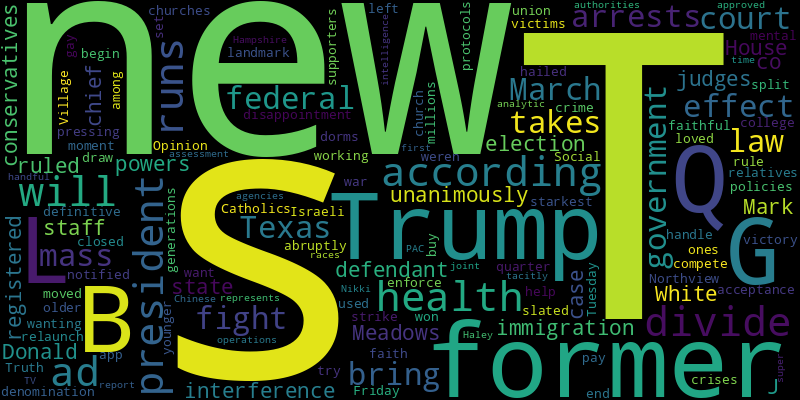
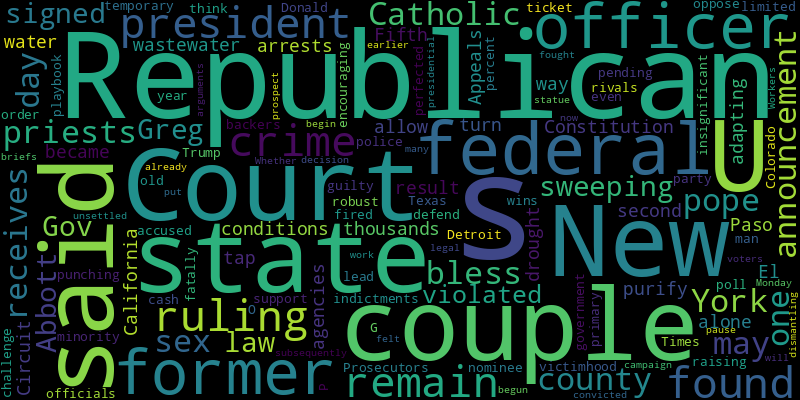
chore(bot): 🙏 auto commit

diff --git a/README.md b/README.md
@@ -2,41 +2,41 @@
 Auto RSS New York Times and Generate Word Cloud
 
 ## New York Times Global News
-* As pressure grows on Israel to scale back the war in Gaza, Defense Secretary Lloyd J. Austin III met with Israeli officials in Tel Aviv to discuss how Israel’s campaign could shift after 10 weeks of fighting.
-* Prime Minister Leo Varadkar said there was no justification for “violence, arson or vandalism.” The blaze came weeks after an anti-immigrant riot in Dublin.
-* A church official said the blessings amounted to “a real development” that nevertheless did not amend “the traditional doctrine of the church about marriage.”
-* Global energy prices jumped as tensions escalated around the vital shipping route, where drone and missile assaults have prompted some companies to halt sending cargos.
-* Jimmy Lai, who published an antigovernment newspaper, faces up to life in prison if convicted on national security charges that rights activists have called baseless.
-* In response to the war in Ukraine, Latvia has targeted residents with Russian passports as part of efforts to combat Moscow’s influence.
-* For two consecutive nights, the Gyeongbokgung palace was spray-painted, in a country where such brazen vandalism is rare.
-* Abdel Fattah el-Sisi is beginning his third term as Egypt’s president, presenting himself as a beacon of stability in a tough neighborhood even as his country’s economy shakes.
-* South Korea’s military said the ICBM, launched from near Pyongyang, flew high into space before landing in waters between the Korean Peninsula and Japan.
-* Family trees have been dismembered, and whole branches obliterated, since the war between Israel and Hamas broke out on Oct. 7.
+* A senior official said the leader, Ismail Haniyeh, was in Egypt to discuss the possibility of a new truce, adding that Israel would have to abide by a cease-fire before the group would discuss releasing more hostages.
+* The militia, which has targeted ships it says are connected to Israel, has vowed not to stop until the siege in Gaza ends and claims that a new U.S.-led maritime task force cannot deter the attacks.
+* The death toll from the earthquake, in a poor, remote area, rose to 131. People who had lost their homes huddled in tents or spent the night in cars.
+* The agreement was pitched by the bloc’s executive arm as a patchwork of compromises aimed at allaying pressures from the far right.
+* The French leader was elected twice on a vow to keep populism at bay. But his bill received rare support from the far right, setting off a crisis in his party.
+* The use of sea drones highlights a path forward for Ukraine in its fight with Russia that has been promoted by the White House and embraced by the Ukrainian leadership.
+* Just a few miles west of some of the country’s most iconic beaches, densely built Sydney suburbs are amplifying the dangers of climate change.
+* The presidential race in the Democratic Republic of Congo will be closely watched internationally. Congo is rich in the rare minerals needed to make electric cars and solar panels.
+* Icelanders had been girding for an eruption. When it happened, they wanted to see it.
+* The eruption on the Reykjanes Peninsula sent lava gushing into the night sky. Air travel did not appear to be affected.
 
 ![Global](./global.png)
 ## New York Times United States News
-* The new law, which takes effect in March, could bring in mass arrests and a court fight between Texas and the federal government over immigration powers.
-* The judges unanimously ruled against Mark Meadows, a former White House chief of staff and a co-defendant of Donald J. Trump in the state election interference case.
-* Some conservatives registered disappointment, but gay Catholics hailed the new rule as a landmark moment for the church’s acceptance of L.G.B.T.Q. faithful.
-* A quarter of the denomination’s churches have left, as the faith divides over L.G.B.T.Q. policies.
-* Northview Village closed so abruptly on Friday, according to a union, that relatives weren’t notified that their loved ones were being moved.
-* Opinion is split between those wanting the war to end and those pressing for a definitive Israeli victory, and the divide is starkest among older and younger generations.
-* R.A.s working in college dorms help crime victims, enforce health protocols and handle mental health crises. They want more pay — and will strike to get it.
-* The app, which used to draw millions of Trump supporters, is set to relaunch as he runs for president again — but it won’t try to compete with Truth Social.
-* An ad buy slated to begin Tuesday in New Hampshire will be the first time the former president’s super PAC runs TV ads against Nikki Haley.
-* Chinese authorities tacitly approved operations in a handful of races, according to the report, which represents the intelligence agencies’ joint analytic assessment.
+* A day after the pope’s announcement that Catholic priests may bless same-sex couples, one New York couple receives theirs.
+* The county said the sweeping new law, signed by Gov. Greg Abbott, violated the Constitution and would result in thousands of arrests in El Paso alone.
+* California became the second U.S. state to allow agencies to purify wastewater and turn it into tap water as a way of adapting to drought conditions.
+* The U.S. Court of Appeals for the Fifth Circuit, in a temporary order, limited the federal government while a challenge by the state of Texas was pending.
+* Prosecutors accused a Detroit police officer of fatally punching a 71-year-old man. The officer has since been fired.
+* The former president has perfected a playbook of victimhood, raising cash off each of his indictments and encouraging Republican officials to defend him, as his rivals did after the Colorado ruling.
+* While Donald Trump’s Republican support remains robust, a not-insignificant minority of his backers oppose having him lead the G.O.P. ticket if he is found guilty of a crime, a Times poll found.
+* More than 60 percent of Republicans think that if the former president wins the primary he should remain the party’s nominee — even if he is subsequently convicted of a federal crime.
+* Whether for or against the decision, many voters said they felt unsettled by the prospect of a presidential campaign fought with legal briefs and court arguments.
+* Workers had already begun dismantling the statue on Monday when an earlier ruling put their work on pause. It will now begin again.
 
 ![US](./usnews.png)
 ## New York Times Asia News
+* The death toll from the earthquake, in a poor, remote area, rose to 131. People who had lost their homes huddled in tents or spent the night in cars.
+* While they lag behind their U.S. counterparts, their focus on non-English languages could help loosen the American grip on artificial intelligence.
+* A popular chef’s video was attacked as a jab at Mao Zedong’s dead son. But what if a recipe for egg fried rice was just a recipe for egg fried rice?
+* Plus our best photos of 2023.
 * The ruling military, which is struggling with recruitment, denies abducting young men and boys to fill its ranks. But five men say it happened to them.
 * The 5.9-magnitude earthquake struck Gansu Province around midnight. People who had fled their homes huddled in the cold, building fires to keep warm.
 * Plus corporate succession in South Korea.
 * Conglomerates that sprawl across the society trace their roots to the nation’s rise into a world power and have been tightly controlled for generations.
 * A lawsuit pitted the former chairman’s widow and daughters against the son he adopted, challenging the patriarchal traditions of a $10 billion conglomerate.
 * For two consecutive nights, the Gyeongbokgung palace was spray-painted, in a country where such brazen vandalism is rare.
-* Jimmy Lai, who published an antigovernment newspaper, faces up to life in prison if convicted on national security charges that rights activists have called baseless.
-* South Korea’s military said the ICBM, launched from near Pyongyang, flew high into space before landing in waters between the Korean Peninsula and Japan.
-* Plus a dance protest craze spreads in Iran.
-* The nation has long been lauded for trying to do right by its Indigenous people, but a new government may force a reckoning of Māori affairs.
 
 ![Asian](./asian.png)
